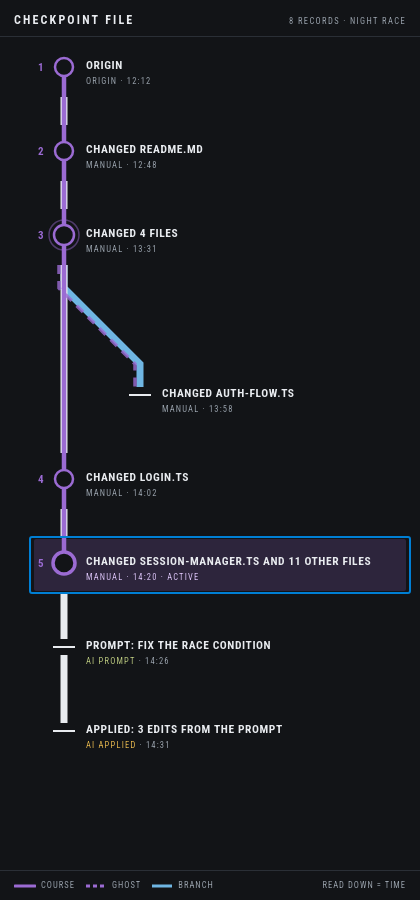
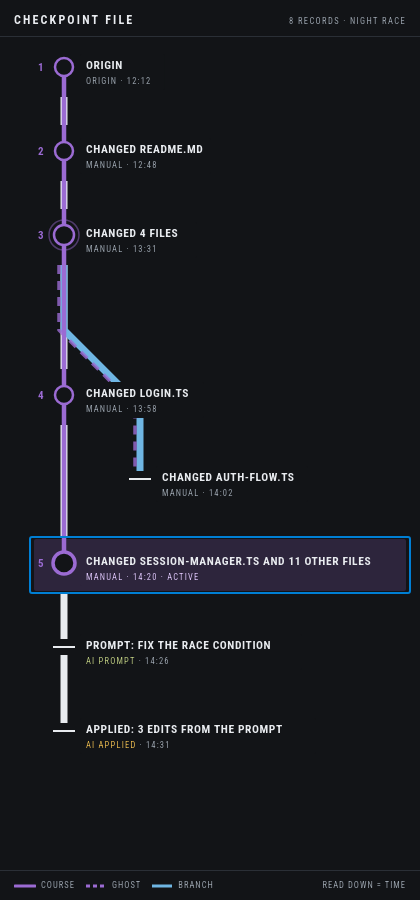
docs(design): knockout rule + dev-host preflight guardrail; evidence refresh
- DESIGN.md + sidecar: The Knockout Plate Rule (14 rules), station vocabulary
  bullet, Two-Pixel Rule reconciled
- AGENTS.md: dev-host preflight (loads the working tree, not commits)
- journal cont. 7 (working-tree revert incident, recovered) + cont. 8 (dogfood
  fix confirmed); review evidence regenerated (23 files + before/after crops)

bd: evo_graph_pms-mnd

Changed region(s): [[0.1238, 0.3111, 0.5571, 0.56], [0.619, 0.5289, 0.65, 0.56], [0.619, 0.4356, 0.65, 0.4667]]

diff --git a/DESIGN.md b/DESIGN.md
@@ -222,6 +222,8 @@ Spacing rhythm: a 14px gutter on the header and footer, 16px insets inside the s
 
 **The Sheet Width Rule.** The drawing sets the sheet's width and the header and footer cap to it. Chrome never outruns the drawing, and the drawing never compresses below 300px.
 
+**The Knockout Plate Rule.** A station's label is printed on a plate, not laid over the map: the name and micro-tag sit on a ground-coloured block drawn first in the station group, so the trunk, the branch lines, the ghost dashes and the course thread stop at the block and resume past it — while the row's own flood and hover washes still tint it. The sheet never asks the reader to choose between the line and the word: a line is never drawn across a name.
+
 ## Elevation & Depth
 
 Flat by construction. The sheet is a printed surface — no shadows, no gradients, no translucency. Depth is carried by three things only: 1px rules (the header and footer hairlines, the dashed state-card border), one tinted band (the flood behind the active control), and the layer order of the drawing itself — trunk and branches first, ghost legs next, the course thread over them, stations on top. The control rings are punched: filled with the ground so the thread passes behind them rather than through.
@@ -238,11 +240,11 @@ Exactly one shadow ships, and it is not on the sheet: the context menu floats ab
 
 ## Shapes
 
-Rectangles are square: header, footer, state card, action button and menu all carry 0 radius. The entire rectangle radius budget is 2px, spent twice — on the flooded band behind the active control and on its focus ring. Circles belong to controls alone: a ring at r=9, r=10 at a junction (with a 15px halo at 45% violet behind it), r=11 when active with its stroke thickened from 2.5 to 3.5. Off-course records are marked with a 22×2px ink bar instead of a ring, and are never numbered. Dashes are a vocabulary, not a texture: 9/7 at 3.5px for an abandoned leg, a 4/3 miniaturisation in the footer key, and a 1px dashed border on a sheet with no records.
+Rectangles are square: header, footer, state card, action button and menu all carry 0 radius. The entire rectangle radius budget is 2px, spent three times — on the flooded band behind the active control, on its focus ring and on the station label plate. Circles belong to controls alone: a ring at r=9, r=10 at a junction (with a 15px halo at 45% violet behind it), r=11 when active with its stroke thickened from 2.5 to 3.5. Off-course records are marked with a 22×2px ink bar instead of a ring, and are never numbered. Dashes are a vocabulary, not a texture: 9/7 at 3.5px for an abandoned leg, a 4/3 miniaturisation in the footer key, and a 1px dashed border on a sheet with no records.
 
 ### Named Rules
 
-**The Two-Pixel Rule.** 2px is the entire radius budget for rectangles in this system — the flooded row and its focus ring. Everything else that is rectangular is square; anything that is round is a control.
+**The Two-Pixel Rule.** 2px is the entire radius budget for rectangles in this system — the flooded row, its focus ring and the label plate. Everything else that is rectangular is square; anything that is round is a control.
 
 **The Punched Control Rule.** A control ring is filled with the ground, not left transparent: the course thread runs *behind* the control, so each ring reads as a hole punched in the route. Circles are reserved for on-course checkpoints, and only on-course checkpoints carry numbers.
 
@@ -273,6 +275,7 @@ The atom of the system: one checkpoint as a stop on the course, drawn as a mark,
 
 - **Mark:** on the course, a numbered control ring (violet stroke, ground fill); a junction adds the halo and takes the ring to r=10; the active station takes r=11, a 3.5px stroke, a flooded 52px band and a micro-tag switched to deep violet with "· active" appended.
 - **Row:** the name sits 22px right of the control centre, 11.5px/700 caps; the micro-tag follows 15px below the name's baseline, at 8.5px with 0.14em tracking.
+- **Label plate:** a ground-coloured plate (rx=2) sits behind the two-line label block — starting 16px right of the lane centre (1px clear of the widest mark, the 15px junction halo), running the estimated text advance plus 6px of air on each side, and standing 36px tall from 13px above the lane centre to 23px below it. It is the first thing drawn in the station group, so the trunk, branch lines, ghost dashes and course thread stop at the block and resume past it, while the flood and hover washes still tint it. Its width uses the same per-character advances as the ellipsis (7px for the name, 5.2px for the tag plus 3px for the separator), so the plate hugs the text as printed.
 - **Hit area:** a 56px-tall invisible row, minimum 160px wide, washed with the course hover tint under the pointer. The focus ring shares the same box and the same 2px radius.
 - **Focus:** the ring is painted only on `:focus-visible` — 2px in the platform focus colour — and keyboard focus is restored to the same station after a switch re-renders the sheet.
 - **Pending:** a station awaiting a switch drops to 55% opacity.
@@ -302,7 +305,7 @@ Four strokes carry the whole network, and their weights are doctrine.
 - **Do** keep provenance in the micro-tag: olive for "AI prompt", amber for "AI applied", faded ink for origin and manual. A type never colours a line, a ring or a row.
 - **Do** keep every string uppercase, in the bundled condensed face, between 8.5px and 12px.
 - **Do** let the theme choose the rendition and the header name it; retune ground, ink, dim and rule and all four accents together, never one alone.
-- **Do** keep the 2px radii to the flooded band and its focus ring, keep off-course records as a 22px tick, and keep every route turn at 45°.
+- **Do** keep the 2px radii to the flooded band, its focus ring and the label plate, keep off-course records as a 22px tick, and keep every route turn at 45°.
 - **Do** keep the hit row at least 56px tall and 160px wide, with a visible focus ring on :focus-visible.
 
 ### Don't:

diff --git a/journal.md b/journal.md
@@ -1,5 +1,63 @@
 # Journal
 
+## 2026-10-24 (cont. 8) -- First live dogfood: label-knockout fix + verified live store
+
+### What was done
+
+- Recovered the working tree (see cont. 7), relaunched the dev host, and the user ran the first real dogfood session: 8 checkpoints with two diverging branches, an "Auto-save before switching" node (the passive safety flow fired for real), visited tracking and active-ref movement — all verified from the CLI against `.evograph/store.git`.
+- User-reported UX defect: branch lines rendered through station labels in topologies where a spine node sits between the fork and its sibling. Reproduced in the preview harness (default model topology updated: login created before auth-flow), fixed with label knockout plates (ground-coloured rect behind each two-line label block, drawn first in the station group under the flood/hover tints; `graph.js` + `.plate` in `view.css`).
+- Finish reviewer (continuation) confirmed the fix: knockout geometry exact, flood/hover uniformity intact, no regressions, ship stands over the change; evidence `fix-before-login-collision.png` / `fix-after-login-collision.png` plus the regenerated 23-file evidence set.
+- Documenter (continuation) reconciled the record: `DESIGN.md` gained "The Knockout Plate Rule" (14 rules now), the station vocabulary gained the label-plate bullet, the Two-Pixel Rule now enumerates its third 2px use; the sidecar mirrored. The two previously flagged items (`.station.switching` wiring, HC-light harness path) are resolved by the same fix session; the state-action button face remains deliberately sheet-side.
+
+### Interface changes made
+
+- Label plates (`.plate`) in the station group; preview model's default topology changed to the collision-inducing shape (regression guard).
+
+### What I struggled with / broke
+
+- The collision escaped the harness because its default model did not exercise the topology; the live user hit it immediately. The fix was to make the failure topology the default model, not a special-case state.
+
+### Test status
+
+```
+npm run check (extension/): lint (src, test, media) clean; typecheck clean; vitest 30/30; compile clean.
+Finish reviewer: ship stands over the label-plate fix (targeted confirmation).
+```
+
+### Handoff to next agent
+
+- Dogfood continues (switch-back, delete-with-reattach, theme flip); findings become bd issues (`discovered-from:evo_graph_pms-mnd`).
+- The label-plate fix + design-record update are committed locally; push pending user permission together with the M1 release commits.
+
+## 2026-10-24 (cont. 7) -- Working-tree revert incident during M1 dogfood launch (recovered)
+
+### What was done
+
+- Launched the Extension Development Host for M1 dogfood (`code --extensionDevelopmentPath=extension <repo>`). The user could not find the EvoGraph container.
+- Diagnosed from logs: at 18:24 (after the M1 commits) the working tree had been reverted to the pre-M1 state — tracked files modified by the M1 commits were restored to their 9010afb content and every file added by those commits (media/, preview/, historyView.ts, errors.ts, .impeccable/** including DESIGN.md's sidecar and the review evidence) was deleted from disk. Untracked user files (m1_test.md, etst.txt) survived. No destructive reset appears in the reflog, so the operation did not move HEAD (a checkout/discard-style revert outside this session is the likely cause — possibly another tool or session).
+- Impact: the dev host had loaded the stale (M0) extension — no `viewsContainers` in the manifest (hence no panel) and the palette activated `onCommand:evograph.restoreCheckpoint` (the old id).
+- Recovery: `git reset --hard HEAD` (HEAD = b1b6a29, the M1 milestone commit — all M1 files are committed, so nothing was lost), `npm run compile`, full `npm run check` green (30/30), media/ + .impeccable/review (21 files) + the M1 manifest verified back in place.
+- Guardrail added to AGENTS.md: dev-host preflight — the Extension Development Host loads the working tree, not commits; confirm `git status` is clean and run `npm run compile` before launching; a missing container + old command ids are the symptom of a stale tree.
+
+### Interface changes made
+
+- None (recovery only).
+
+### What I struggled with / broke
+
+- Nothing broken by this session's actions; the revert's origin is unexplained (not in the reflog). Watch for recurrence; if it happens again, check other running sessions/tools first.
+
+### Test status
+
+```
+npm run check (extension/): lint clean; typecheck clean; vitest 30/30; compile clean (post-recovery).
+```
+
+### Handoff to next agent
+
+- Dogfood continues: reload the dev host window (Developer: Reload Window) so it re-scans the restored extension, then run the M1 checklist (panel via palette "EvoGraph: Open Checkpoint File" or the secondary sidebar).
+- Before any future dev-host launch: `git status` clean + `npm run compile` (see AGENTS.md preflight rule).
+
 ## 2026-10-24 (cont. 6) -- M1 finish: ship verdict, documentation, and the wiring catch
 
 ### What was done

diff --git a/AGENTS.md b/AGENTS.md
@@ -61,6 +61,7 @@ cp -rf source dest          # NOT: cp -r source dest
 - Toolchain: TypeScript 6 in NodeNext mode. Keep `module`/`moduleResolution` on NodeNext (node10 resolution is deprecated and errors), keep `"types": ["node"]` in `tsconfig.json` (TS 6 no longer auto-includes node types for src-only configs), and keep the vitest config named `vitest.config.mts` (a `.ts` config is loaded as CommonJS and warns).
 - `git for-each-ref` does not support `%x1f` pretty-format escapes (only `git log --format` does); use a literal tab separator when parsing ref listings.
 - Quality gate: `npm run check` in `extension/` (lint → typecheck → tests → compile) must be green before committing code changes.
+- Dev-host preflight: the Extension Development Host loads the **working tree**, not committed revisions. Before launching/reloading it, confirm `git status` shows no unexpected reverts and that `extension/out` is freshly compiled (`npm run compile`). Symptom of a stale tree: the palette shows old command ids (e.g. `evograph.restoreCheckpoint`) and the EvoGraph container is missing.
 
 <!-- BEGIN BEADS INTEGRATION v:1 profile:minimal hash:7510c1e2 -->
 ## Beads Issue Tracker
